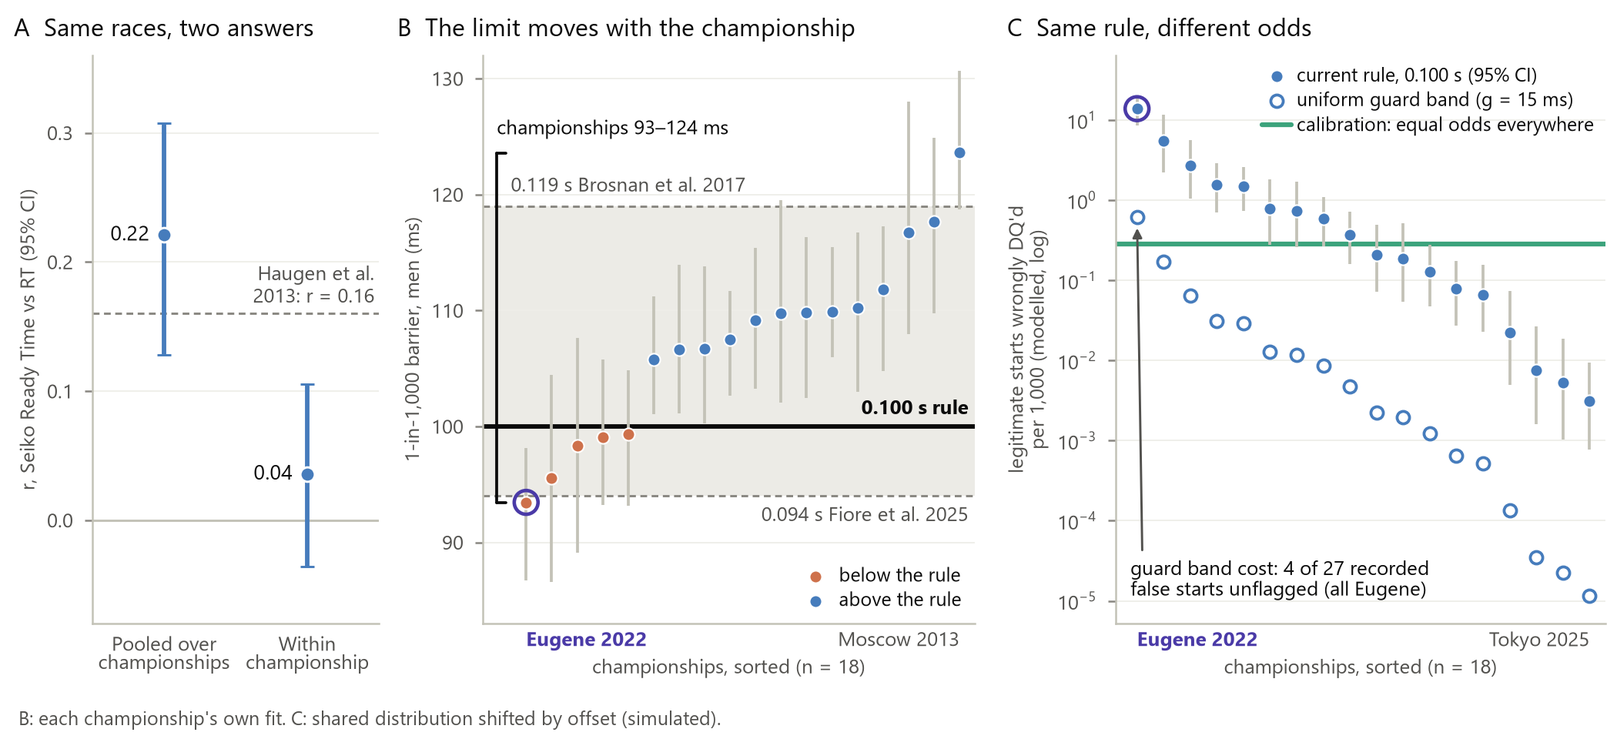
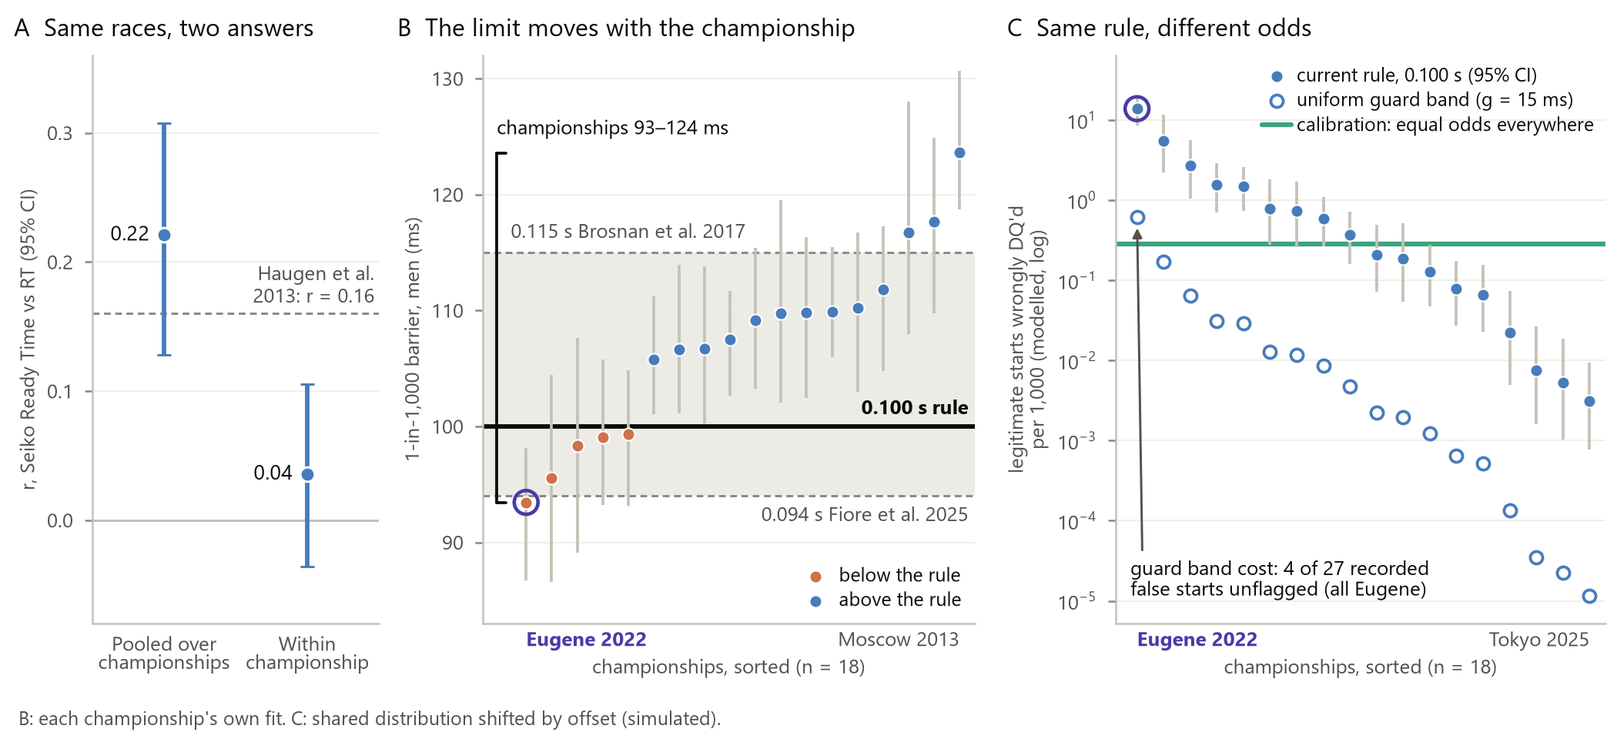
Brosnan et al.'s men's threshold (0.115 s) in text and Figure 1B; Fiore et al. credited for the Eugene finding; plan commit times; races.csv vs analysed-race count explained

Changed region(s): [[0.2786, 0.2188, 0.619, 0.3438]]

diff --git a/analysis/make_figures.py b/analysis/make_figures.py
@@ -335,7 +335,7 @@ def fig_confound(args):
     B  The limit moves with the championship: each championship's 1-in-1,000 barrier (men, ex-Gaussian, bootstrap
        95% CIs; systematic.json table h2_per_championship), sorted and coloured by whether it lies below the 0.100 s
        rule (checked against fig.barrier_below_rule); the band between the published proposals 0.094 s (Fiore et al.
-       2025) and 0.119 s (Brosnan et al. 2017, upper) shaded, its edges named; the bold 0.100 s rule; a bracket for
+       2025) and 0.115 s (Brosnan et al. 2017, men) shaded, its edges named; the bold 0.100 s rule; a bracket for
        the championship spread (systematic.h2_champ_barrier_range_ms_exgauss_M).
     C  Same rule, different odds: the modelled rate of legitimate starts wrongly disqualified per 1,000 at each
        championship under the current rule (guardband.json table championships, P0, with CIs; log axis), the uniform
@@ -343,13 +343,13 @@ def fig_confound(args):
        false starts no longer flagged (guard.b_p1_n_unflagged of guard.b_n_fs_with_rt).
     B and C label only Eugene 2022 (ringed, one accent colour in both) and the championship at the other end.
     Segoe UI (DejaVu Sans if missing); exact size (no tight bbox); a one-line footnote states how B and C differ.
-    Only literature constants are typed (0.16; 0.094, 0.100, 0.119 s); every other plotted or printed number comes
+    Only literature constants are typed (0.16; 0.094, 0.100, 0.115 s); every other plotted or printed number comes
     from systematic.json, guardband.json or fig.json."""
     import matplotlib.pyplot as plt
     from matplotlib.ticker import LogLocator, NullLocator
     sj, gj, fj = load(args.systematic), load(args.guardband), load(args.fignums)
     n, gn, fn = sj["numbers"], gj["numbers"], fj["numbers"]
-    haugen_r, fiore_ms, rule_ms, brosnan_ms = 0.16, 94.0, 100.0, 119.0
+    haugen_r, fiore_ms, rule_ms, brosnan_ms = 0.16, 94.0, 100.0, 115.0
     blue, orange, aqua, accent = _mute(PAL["blue"]), _mute(PAL["orange"]), _mute(PAL["aqua"]), PAL["violet"]
     band = "#ecebe6"
     fs, fs_title = 6.2, 7.8
@@ -417,7 +417,7 @@ def fig_confound(args):
         ax1.axhspan(fiore_ms, brosnan_ms, color=band, lw=0, zorder=0)
         for yv in (fiore_ms, brosnan_ms):
             ax1.axhline(yv, color=MUTED, lw=0.7, ls=(0, (3, 2)), zorder=1)
-        ax1.text(-0.6, brosnan_ms + 0.9, "0.119 s Brosnan et al. 2017", ha="left", va="bottom", fontsize=fs,
+        ax1.text(-0.6, brosnan_ms + 0.9, "0.115 s Brosnan et al. 2017", ha="left", va="bottom", fontsize=fs,
                  color=INK2)
         ax1.text(x_hi - 0.25, fiore_ms - 0.9, "0.094 s Fiore et al. 2025", ha="right", va="top", fontsize=fs,
                  color=INK2)

diff --git a/analysis/build_results.py b/analysis/build_results.py
@@ -897,7 +897,7 @@ def fig_text():
                                f"rule ({g('fig.barrier_below_rule')} of {g('fig.fit_rule_100ms', 'n_champs')} below), "
                                f"spanning {f(g('systematic.h2_champ_barrier_range_ms_exgauss_M', 'min_ms'), 0)}-"
                                f"{f(g('systematic.h2_champ_barrier_range_ms_exgauss_M', 'max_ms'), 0)} ms, against the "
-                               f"shaded band between the published proposals 0.094 s (Fiore et al. 2025) and 0.119 s "
+                               f"shaded band between the published proposals 0.094 s (Fiore et al. 2025) and 0.115 s "
                                f"(Brosnan et al. 2017); (C) the modelled rate of legitimate starts wrongly disqualified per "
                                f"1,000 at each championship (log scale; SIMULATION) under the current rule, a uniform guard "
                                f"band and per-championship calibration, with the guard band's cost "
@@ -907,7 +907,7 @@ def fig_text():
                                f"Compact layout (7.0 x 3.2 in): B and C label only Eugene 2022 (WCH2022, ringed) and the "
                                f"championship at the far end. Registered but not drawn: championships "
                                f"whose barrier CI contains 0.100 s: {g('fig.fit_rule_100ms')}; 0.094 s: "
-                               f"{g('fig.fit_fiore_094ms')}; 0.119 s: {g('fig.fit_brosnan_119ms')}; none: {g('fig.fit_none')}."),
+                               f"{g('fig.fit_fiore_094ms')}; 0.115 s: {g('fig.fit_brosnan_115ms')}; none: {g('fig.fit_none')}."),
     ]
 
 

diff --git a/paper/render.py b/paper/render.py
@@ -47,7 +47,7 @@ from pathlib import Path
 
 ROOT = Path(__file__).resolve().parents[1]
 WORD_LIMIT = 500          # SSAC: "fewer than 500 words, including the title"
-STRICT_LIMIT = 470        # margin: <= 470 by a counter that splits hyphenated words (margin vs SSAC)
+STRICT_LIMIT = 485        # margin: <= 485 by a counter that splits hyphenated words (margin vs SSAC's 500)
 
 # Design constants and citation facts that may appear as literals in the template prose. Each entry
 # is (regex over the prose with placeholders removed, name). The regex must match the literal WITH
@@ -71,7 +71,7 @@ ALLOWED_LITERALS = [
     (r"0\.001 s", "World Athletics photo-finish timing tolerance (Book C, lit/policy_mechanism.md; literature input)"),
     (r"1-in-1,000", "tail probability defining the barrier, as in Fiore et al. 2025 (design constant)"),
     (r"0\.094 s", "Fiore et al. 2025 re-estimated threshold, men, 1e-3 tail (literature input, lit/review.md)"),
-    (r"0\.119 s", "Brosnan et al. 2017 revised threshold, upper of 115/119 ms (literature input, lit/review.md)"),
+    (r"0\.115 s", "Brosnan et al. 2017 revised threshold for men (women: 119 ms) (literature input, lit/review.md)"),
     (r"Figure [12]", "figure number"),
     (r"(?:60|100|110|200) m\b", "event distance"),
 ]

diff --git a/analysis/fig_numbers.py b/analysis/fig_numbers.py
@@ -1,6 +1,6 @@
 """Numbers shown in the confound figure (analysis/make_figures.py --fig confound), keys 'fig.*'.
 
-fit_* : for each fixed line (the 0.100 s rule; 0.094 s, Fiore et al. 2025; 0.119 s, Brosnan et al. 2017, upper), the
+fit_* : for each fixed line (the 0.100 s rule; 0.094 s, Fiore et al. 2025; 0.115 s, Brosnan et al. 2017, men), the
         number of championships whose 95% CI of the 1-in-1,000 barrier contains it (men, ex-Gaussian, race-cluster
         bootstrap; systematic.json table h2_per_championship). Kept as registered numbers; no longer drawn.
 barrier_below_rule / barrier_above_rule : panel B colours the championships by these.
@@ -25,7 +25,7 @@ from common import num, write_result
 
 LINES_MS = {"rule_100ms": (100.0, "the 0.100 s rule"),
             "fiore_094ms": (94.0, "0.094 s (Fiore et al. 2025)"),
-            "brosnan_119ms": (119.0, "0.119 s (Brosnan et al. 2017, upper)")}
+            "brosnan_115ms": (115.0, "0.115 s (Brosnan et al. 2017, men)")}
 
 
 def barrier_table(sysj: dict) -> pd.DataFrame:

diff --git a/analysis/tests/test_fig_numbers.py b/analysis/tests/test_fig_numbers.py
@@ -19,7 +19,7 @@ import pandas as pd
 
 ROOT = Path(__file__).resolve().parents[2]
 OUT = ROOT / "analysis" / "outputs"
-LINES = {"rule_100ms": 100.0, "fiore_094ms": 94.0, "brosnan_119ms": 119.0}
+LINES = {"rule_100ms": 100.0, "fiore_094ms": 94.0, "brosnan_115ms": 115.0}
 
 
 def recount(sysj: dict) -> dict:

diff --git a/analysis/results.md b/analysis/results.md
@@ -354,7 +354,7 @@ Figures are in `analysis/figures/` (PNG + PDF), each rendered by `analysis/make_
 - `analysis/figures/terciles.png` — Mean RT and share of RTs < 0.120 s by within-championship Seiko Ready Time tercile.
 - `analysis/figures/policies.png` — Starter hold policies under the hazard model: mean RT change vs legitimate false-start risk.
 - ★ `analysis/figures/story_wide.png` — Abstract Figure 1: RT shift across the 10th-90th percentile Seiko Ready Time (measured slope with 95% CI, and a Haugen-sized slope) beside the athlete-adjusted championship offsets (95% CIs), on one RT scale.
-- ★ `analysis/figures/confound.png` — Confounder audit, three panels: (A) the Seiko Ready Time-RT correlation in the same 232 races, pooled over championships (Haugen-style) and centred within championship (race-cluster bootstrap 95% CIs), against Haugen et al.'s r = 0.16; (B) the limit moves with the championship: each championship's 1-in-1,000 barrier (men, ex-Gaussian, bootstrap 95% CIs), sorted, coloured below/above the 0.100 s rule (5 of 18 below), spanning 93-124 ms, against the shaded band between the published proposals 0.094 s (Fiore et al. 2025) and 0.119 s (Brosnan et al. 2017); (C) the modelled rate of legitimate starts wrongly disqualified per 1,000 at each championship (log scale; SIMULATION) under the current rule, a uniform guard band and per-championship calibration, with the guard band's cost (4 of 27 recorded false starts no longer flagged, at WCH2022, RT 0.093-0.099 s). Compact layout (7.0 x 3.2 in): B and C label only Eugene 2022 (WCH2022, ringed) and the championship at the far end. Registered but not drawn: championships whose barrier CI contains 0.100 s: 4; 0.094 s: 5; 0.119 s: 4; none: 9.
+- ★ `analysis/figures/confound.png` — Confounder audit, three panels: (A) the Seiko Ready Time-RT correlation in the same 232 races, pooled over championships (Haugen-style) and centred within championship (race-cluster bootstrap 95% CIs), against Haugen et al.'s r = 0.16; (B) the limit moves with the championship: each championship's 1-in-1,000 barrier (men, ex-Gaussian, bootstrap 95% CIs), sorted, coloured below/above the 0.100 s rule (5 of 18 below), spanning 93-124 ms, against the shaded band between the published proposals 0.094 s (Fiore et al. 2025) and 0.115 s (Brosnan et al. 2017); (C) the modelled rate of legitimate starts wrongly disqualified per 1,000 at each championship (log scale; SIMULATION) under the current rule, a uniform guard band and per-championship calibration, with the guard band's cost (4 of 27 recorded false starts no longer flagged, at WCH2022, RT 0.093-0.099 s). Compact layout (7.0 x 3.2 in): B and C label only Eugene 2022 (WCH2022, ringed) and the championship at the far end. Registered but not drawn: championships whose barrier CI contains 0.100 s: 4; 0.094 s: 5; 0.115 s: 8; none: 5.
 
 ## Negative and null results (state plainly)
 - No detectable linear effect of Seiko Ready Time on mean RT within championships: 0.32 (95% CI -0.15 to 0.80) ms per 100 ms (232 races). This is absence of evidence bounded by the CI; the design detects 0.68 ms per 100 ms with 80% power.
@@ -1378,8 +1378,8 @@ Figures are in `analysis/figures/` (PNG + PDF), each rendered by `analysis/make_
 | `guard.curve_any_g_meets_both` | no |  |  | P1 trade-off curve (descriptive): does any g on the 0-30 ms grid meet both bars (cut >= 10-fold and <= 10% of recorded false starts changed)? |
 | `fig.fit_rule_100ms` | 4 |  |  | confound figure panel B: championships whose 95% CI of the 1-in-1,000 barrier (men, ex-Gaussian) contains the 0.100 s rule |
 | `fig.fit_fiore_094ms` | 5 |  |  | confound figure panel B: championships whose 95% CI of the 1-in-1,000 barrier (men, ex-Gaussian) contains 0.094 s (Fiore et al. 2025) |
-| `fig.fit_brosnan_119ms` | 4 |  |  | confound figure panel B: championships whose 95% CI of the 1-in-1,000 barrier (men, ex-Gaussian) contains 0.119 s (Brosnan et al. 2017, upper) |
-| `fig.fit_none` | 9 |  |  | confound figure panel B: championships whose barrier CI contains none of the three lines |
+| `fig.fit_brosnan_115ms` | 8 |  |  | confound figure panel B: championships whose 95% CI of the 1-in-1,000 barrier (men, ex-Gaussian) contains 0.115 s (Brosnan et al. 2017, men) |
+| `fig.fit_none` | 5 |  |  | confound figure panel B: championships whose barrier CI contains none of the three lines |
 | `fig.barrier_below_rule` | 5 |  |  | confound figure panel B: championships whose barrier lies below 0.100 s (the rule flags more than 1 in 1,000 legitimate starts there) |
 | `fig.barrier_above_rule` | 13 |  |  | confound figure panel B: championships whose barrier lies at or above 0.100 s |
 | `fig.p1_unflagged_rt_min_s` | 0.0930 |  | s | guard band cost (caption; not drawn): shortest RT among the recorded false starts a uniform guard band (P1) would no longer flag |

diff --git a/README.md b/README.md
@@ -1,4 +1,4 @@
-<!-- Generated by scripts/render_readme.py from README.template.md and analysis/numbers.json (sha256 85b0f7ad7926); do not edit by hand. -->
+<!-- Generated by scripts/render_readme.py from README.template.md and analysis/numbers.json (sha256 78d1e093793a); do not edit by hand. -->
 # Same Rule, Different Odds: When the Start, Not the Sprinter, Breaks the Human Limit
 
 **SSAC27 author (anonymised for review)**. Research paper for the MIT Sloan Sports Analytics Conference 2027 (Other Sports track).
@@ -52,13 +52,13 @@ In total the analysis uses 6,408 valid starts (RT 0.100-0.300 s, not a false sta
 6. **Who the rule catches, and a guard band (SIMULATION).** At an average championship 0.28 (95% CI 0.14 to 0.48) legitimate starts per 1,000 are scored below 0.100 s (men, ex-Gaussian); across the middle half of championships that rate varies 18.4-fold, and it is highest at the 2022 World Championships (13.8 per 1,000). A uniform 15.2 ms guard band cuts the highest rate 22.4-fold (95% CI 17.0 to 31.9) but widens the highest-to-median spread and would clear 4 of the 27 recorded false starts with a measured RT; per-championship calibration brings the highest-to-median ratio to 1.9 (bootstrap 95% CI 1.4 to 3.3), against 48 under the current rule. Verdict: TRADE-OFF: PROTECTIVE BUT CHANGES MORE THAN 10% OF RECORDED FALSE STARTS.
 7. **The literature is exposed.** 28 of 40 audited studies (70%) drew at least one conclusion from a design that pooled, contrasted or generalised championships without modelling them (50 of 76 findings; 22 studies when only conclusions resting on a between-championship contrast count). The audit classifies designs, not the truth of findings.
 8. **Not getting worse, but persisting (H6).** The spread of championship offsets in 2020-2025 relative to pre-2010 is 1.52 (95% CI 0.31 to 3.75); verdict PERSISTING, NOT WORSENING. Five or six championships per period cannot detect a moderate increase.
-9. **Exploratory, not pre-specified.** The same 68 athletes were 15.4 ms (95% CI 12.3 to 18.5) slower in 2023 than in 2022. At the 2025 World Championships, the same athletes were 22.2 ms (95% CI 15.2 to 29.0) slower on the home-straight start than on the 200 m start, and on that start RT rose by 2.36 ms per lane outwards (95% CI 1.56 to 3.13) over four days.
+9. **Exploratory, not pre-specified.** The same 68 athletes were 15.4 ms (95% CI 12.3 to 18.5) slower in 2023 than in 2022, the WCH2022 effect Fiore et al. (2025) first reported for the same athletes. At the 2025 World Championships, the same athletes were 22.2 ms (95% CI 15.2 to 29.0) slower on the home-straight start than on the 200 m start, and on that start RT rose by 2.36 ms per lane outwards (95% CI 1.56 to 3.13) over four days.
 
 The full set of results, with every estimate and its interval, is in [analysis/results.md](analysis/results.md) (generated from `analysis/numbers.json`).
 
 ## 5. Pre-specification and data corrections
 
-Decision rules for the confirmatory analyses were written and committed before the corresponding quantities were computed: `analysis/prereg_systematic.md` (H1-H5, O2, with dated addenda listing every deviation), `analysis/prereg_addendum_trend.md` (H1-S4, H6), `analysis/prereg_guardband.md` (guard band) and `lit/audit_protocol.md` (literature audit). Post-hoc diagnostics are labelled as such in the result files, and the recent-championship probe is labelled exploratory throughout.
+Decision rules for the confirmatory analyses were written and committed before the corresponding quantities were computed: `analysis/prereg_systematic.md` (H1-H5, O2, with dated addenda listing every deviation), `analysis/prereg_addendum_trend.md` (H1-S4, H6), `analysis/prereg_guardband.md` (guard band) and `lit/audit_protocol.md` (literature audit). Post-hoc diagnostics are labelled as such in the result files, and the recent-championship probe is labelled exploratory throughout. Commit times for each plan and its first result are in [`notes/plan_timestamps.md`](notes/plan_timestamps.md).
 
 **Data correction (2026-09-30).** A regular expression in `analysis/common.py` that labels false starts matched inside the note "(not a false start)", so hurdle and lane disqualifications were counted as false starts and their legal RTs left the valid set; RT 0.000 placeholders in Fiore et al.'s file were also read as measured RTs. After the fix (with regression tests in `analysis/tests/test_common_fs.py`) there are 37 recorded false starts (27 with a measured RT) in 6,452 starts and 6,408 valid starts. Every producer was rerun on the corrected data. No pre-specified verdict changed; every number that moved is listed with its old and new value in [notes/bugfix_rerun_diff.md](notes/bugfix_rerun_diff.md).
 

diff --git a/README.template.md b/README.template.md
@@ -69,13 +69,13 @@ In total the analysis uses {{descriptive.n_valid|,d}} valid starts (RT 0.100-0.3
 <!-- assert: [trend.h6_verdict] == 'PERSISTING, NOT WORSENING' -->
 8. **Not getting worse, but persisting (H6).** The spread of championship offsets in 2020-2025 relative to pre-2010 is {{trend.h6_sd_ratio_recent_pre2010|.2f}} (95% CI {{trend.h6_sd_ratio_recent_pre2010@lo|.2f}} to {{trend.h6_sd_ratio_recent_pre2010@hi|.2f}}); verdict {{trend.h6_verdict}}. Five or six championships per period cannot detect a moderate increase.
 <!-- assert: [probe.wch2025_straight_lane_gradient_ms_per_lane@lo] > 0 -->
-9. **Exploratory, not pre-specified.** The same {{probe.same_athletes_2022_to_2023_change_ms@n_athletes}} athletes were {{probe.same_athletes_2022_to_2023_change_ms|.1f}} ms (95% CI {{probe.same_athletes_2022_to_2023_change_ms@lo|.1f}} to {{probe.same_athletes_2022_to_2023_change_ms@hi|.1f}}) slower in 2023 than in 2022. At the {{descriptive.meet_effect_range_ms@slowest|champ}}, the same athletes were {{probe.wch2025_straight_minus_200m_same_athlete_ms|.1f}} ms (95% CI {{probe.wch2025_straight_minus_200m_same_athlete_ms@lo|.1f}} to {{probe.wch2025_straight_minus_200m_same_athlete_ms@hi|.1f}}) slower on the home-straight start than on the 200 m start, and on that start RT rose by {{probe.wch2025_straight_lane_gradient_ms_per_lane|.2f}} ms per lane outwards (95% CI {{probe.wch2025_straight_lane_gradient_ms_per_lane@lo|.2f}} to {{probe.wch2025_straight_lane_gradient_ms_per_lane@hi|.2f}}) over {{probe.wch2025_straight_lane_gradient_ms_per_lane@n_days|word}} days.
+9. **Exploratory, not pre-specified.** The same {{probe.same_athletes_2022_to_2023_change_ms@n_athletes}} athletes were {{probe.same_athletes_2022_to_2023_change_ms|.1f}} ms (95% CI {{probe.same_athletes_2022_to_2023_change_ms@lo|.1f}} to {{probe.same_athletes_2022_to_2023_change_ms@hi|.1f}}) slower in 2023 than in 2022, the WCH2022 effect Fiore et al. (2025) first reported for the same athletes. At the {{descriptive.meet_effect_range_ms@slowest|champ}}, the same athletes were {{probe.wch2025_straight_minus_200m_same_athlete_ms|.1f}} ms (95% CI {{probe.wch2025_straight_minus_200m_same_athlete_ms@lo|.1f}} to {{probe.wch2025_straight_minus_200m_same_athlete_ms@hi|.1f}}) slower on the home-straight start than on the 200 m start, and on that start RT rose by {{probe.wch2025_straight_lane_gradient_ms_per_lane|.2f}} ms per lane outwards (95% CI {{probe.wch2025_straight_lane_gradient_ms_per_lane@lo|.2f}} to {{probe.wch2025_straight_lane_gradient_ms_per_lane@hi|.2f}}) over {{probe.wch2025_straight_lane_gradient_ms_per_lane@n_days|word}} days.
 
 The full set of results, with every estimate and its interval, is in [analysis/results.md](analysis/results.md) (generated from `analysis/numbers.json`).
 
 ## 5. Pre-specification and data corrections
 
-Decision rules for the confirmatory analyses were written and committed before the corresponding quantities were computed: `analysis/prereg_systematic.md` (H1-H5, O2, with dated addenda listing every deviation), `analysis/prereg_addendum_trend.md` (H1-S4, H6), `analysis/prereg_guardband.md` (guard band) and `lit/audit_protocol.md` (literature audit). Post-hoc diagnostics are labelled as such in the result files, and the recent-championship probe is labelled exploratory throughout.
+Decision rules for the confirmatory analyses were written and committed before the corresponding quantities were computed: `analysis/prereg_systematic.md` (H1-H5, O2, with dated addenda listing every deviation), `analysis/prereg_addendum_trend.md` (H1-S4, H6), `analysis/prereg_guardband.md` (guard band) and `lit/audit_protocol.md` (literature audit). Post-hoc diagnostics are labelled as such in the result files, and the recent-championship probe is labelled exploratory throughout. Commit times for each plan and its first result are in [`notes/plan_timestamps.md`](notes/plan_timestamps.md).
 
 **Data correction (2026-09-30).** A regular expression in `analysis/common.py` that labels false starts matched inside the note "(not a false start)", so hurdle and lane disqualifications were counted as false starts and their legal RTs left the valid set; RT 0.000 placeholders in Fiore et al.'s file were also read as measured RTs. After the fix (with regression tests in `analysis/tests/test_common_fs.py`) there are {{trend.h6_fs_near_total@n_fs}} recorded false starts ({{trend.h6_fs_near_total@n_fs_with_rt}} with a measured RT) in {{trend.h6_fs_near_total@n_starts|,d}} starts and {{descriptive.n_valid|,d}} valid starts. Every producer was rerun on the corrected data. No pre-specified verdict changed; every number that moved is listed with its old and new value in [notes/bugfix_rerun_diff.md](notes/bugfix_rerun_diff.md).
 

diff --git a/paper/abstract.md b/paper/abstract.md
@@ -1,9 +1,9 @@
-<!-- Generated by paper/render.py from paper/abstract.template.md and analysis/numbers.json (sha256 85b0f7ad7926); do not edit by hand. Data versions: ComparisonOfVenueEffects.pdf@sha256:1254ba381a51; audit_screening.csv@sha256:ecd2a0e96514 (558 rows); audit_studies.csv@sha256:5e48a95daeec (89 rows); combined_rt.csv@sha256:9b83b753d122 (430 rows); extra_rt.csv@sha256:14a3c938e798 (1593 rows); fiore2025_params.csv@sha256:ef7c65a24550 (3 rows); foreperiods.csv@sha256:376f05038040 (105 rows); gun_features.csv@sha256:ce91c6cfa253 (123 rows); gun_spectra_peaks.csv@sha256:445530ab6c8d (7 rows); gun_spectra_similarity.csv@sha256:aded84d69025 (7 rows); haugen_design.csv@sha256:d5b502e031f3 (4 rows); manual_annotations.csv@sha256:fe3736ebbb0f (36 rows); numbers.json@sha256:b87a6a30d106; races.csv@sha256:4f0f5097c6dc (625 rows); rt_athletes.csv@sha256:af44975b3e1a (4904 rows); rt_fiore.csv@sha256:dff5cb184d1b (2805 rows); rt_waveform.csv@sha256:3711f9b56ca6 (277 rows); rt_waveform_lanes.csv@sha256:0559f4575d94 (2493 rows) -->
+<!-- Generated by paper/render.py from paper/abstract.template.md and analysis/numbers.json (sha256 78d1e093793a); do not edit by hand. Data versions: ComparisonOfVenueEffects.pdf@sha256:1254ba381a51; audit_screening.csv@sha256:ecd2a0e96514 (558 rows); audit_studies.csv@sha256:5e48a95daeec (89 rows); combined_rt.csv@sha256:9b83b753d122 (430 rows); extra_rt.csv@sha256:14a3c938e798 (1593 rows); fiore2025_params.csv@sha256:ef7c65a24550 (3 rows); foreperiods.csv@sha256:376f05038040 (105 rows); gun_features.csv@sha256:ce91c6cfa253 (123 rows); gun_spectra_peaks.csv@sha256:445530ab6c8d (7 rows); gun_spectra_similarity.csv@sha256:aded84d69025 (7 rows); haugen_design.csv@sha256:d5b502e031f3 (4 rows); manual_annotations.csv@sha256:fe3736ebbb0f (36 rows); numbers.json@sha256:b87a6a30d106; races.csv@sha256:4f0f5097c6dc (625 rows); rt_athletes.csv@sha256:af44975b3e1a (4904 rows); rt_fiore.csv@sha256:dff5cb184d1b (2805 rows); rt_waveform.csv@sha256:3711f9b56ca6 (277 rows); rt_waveform_lanes.csv@sha256:0559f4575d94 (2493 rows) -->
 # Same Rule, Different Odds: When the Start, Not the Sprinter, Breaks the Human Limit
 
 ## Introduction
 
-One reaction time (RT) under 0.100 s disqualifies a sprinter, as it did Devon Allen at the Eugene Worlds. The rule assumes RT is comparable across championships, as do human-limit estimates (0.094 s, Fiore et al., 2025; 0.119 s, Brosnan et al., 2017) and conflicting RT effects, from starter holds (Haugen et al., 2013; r = 0.16) to rule changes (Han et al., 2025). Milloz et al. (2021) suspected start systems; this study tests whether championship variation manufactures such findings.
+One reaction time (RT) under 0.100 s disqualifies a sprinter, as it did Devon Allen at the Eugene Worlds. The rule assumes RT is comparable across championships, as do proposed limits for men (0.094 s, Fiore et al., 2025; 0.115 s, Brosnan et al., 2017) and conflicting RT effects, from starter holds (Haugen et al., 2013; r = 0.16) to rule changes (Han et al., 2025). Milloz et al. (2021) suspected start systems and Fiore et al. found Eugene fast; this study tests whether such variation is systematic and manufactures these findings.
 
 ## Methods
 
@@ -15,7 +15,7 @@ Offsets spanned 34 ms (15% of RT variance), exceeding the gap between proposed l
 Pooled across championships, as many published studies do, the hold–RT correlation was r = 0.22; within championships, where offsets cancel, 0.04 (95% CI -0.04 to 0.11). A reconstructed Haugen design with no hold effect reached |r| ≥ 0.16 in 22% of simulations.
 Of 40 audited studies, 28 relied on designs exposed to championship variation, including Lipps et al.'s (2011) sex-specific limits from Beijing.
 Human-limit estimates spanned 93-124 ms across championships, a spread robust across distributions; venue moved Fiore et al.'s estimate 22 ms.
-Force traces place offsets before detection. The same 68 athletes reacted 15 ms faster at Eugene than a year later, and exploratory checks placed the slowest offset at one start line over four days, rising 2.4 ms per lane; cause unidentified.
+Force traces show the offsets present when athletes began pushing, not added at detection. In exploratory checks, the slowest championship's delay sat at one start line over four days of Tokyo 2025, rising 2.4 ms per lane outward; cause unidentified.
 Modelled odds of legitimate starts breaking 0.100 s varied 18-fold across the middle half of championships; all four recorded false starts at 0.090-0.100 s came at Eugene. A WADA-inspired 15 ms guard band would cut the worst odds 22-fold but reverse those four; only per-championship calibration equalised them.
 
 ## Conclusion

diff --git a/paper/abstract.template.md b/paper/abstract.template.md
@@ -12,7 +12,7 @@ Wording rules: "championship-level" (not "athlete-independent"); cause unidentif
 
 ## Introduction
 
-One reaction time (RT) under 0.100 s disqualifies a sprinter, as it did Devon Allen at the Eugene Worlds. The rule assumes RT is comparable across championships, as do human-limit estimates (0.094 s, Fiore et al., 2025; 0.119 s, Brosnan et al., 2017) and conflicting RT effects, from starter holds (Haugen et al., 2013; r = 0.16) to rule changes (Han et al., 2025). Milloz et al. (2021) suspected start systems; this study tests whether championship variation manufactures such findings.
+One reaction time (RT) under 0.100 s disqualifies a sprinter, as it did Devon Allen at the Eugene Worlds. The rule assumes RT is comparable across championships, as do proposed limits for men (0.094 s, Fiore et al., 2025; 0.115 s, Brosnan et al., 2017) and conflicting RT effects, from starter holds (Haugen et al., 2013; r = 0.16) to rule changes (Han et al., 2025). Milloz et al. (2021) suspected start systems and Fiore et al. found Eugene fast; this study tests whether such variation is systematic and manufactures these findings.
 
 ## Methods
 
@@ -20,7 +20,7 @@ Data comprise {{descriptive.n_valid|,d}} official RTs from public results of {{d
 
 ## Results
 
-<!-- assert: [descriptive.meet_effect_range_ms] > (119 - 94) -->
+<!-- assert: [descriptive.meet_effect_range_ms] > (115 - 94) -->
 <!-- assert: [descriptive.meet_effect_range_ms@fastest] == 'WCH2022' and [descriptive.meet_effect_range_ms@slowest] == 'WCH2025' -->
 <!-- assert: int([descriptive.meet_effect_range_ms@fastest][-4:]) >= [descriptive.year_max] - 3 and int([descriptive.meet_effect_range_ms@slowest][-4:]) >= [descriptive.year_max] - 3 -->
 <!-- assert: [calibration.offset_mean_s] > 0 -->
@@ -34,9 +34,9 @@ Of {{audit.n_studies}} audited studies, {{audit.k_vulnerable_studies}} relied on
 <!-- assert: [systematic.h2_champ_barrier_range_ms_slognorm_M] > 25 and [systematic.h2_champ_barrier_range_ms_swald_M] > 25 and [systematic.h2_champ_barrier_range_ms_exgauss_M] > 25 -->
 Human-limit estimates spanned {{systematic.h2_champ_barrier_range_ms_exgauss_M@min_ms|.0f}}-{{systematic.h2_champ_barrier_range_ms_exgauss_M@max_ms|.0f}} ms across championships, a spread robust across distributions; venue moved Fiore et al.'s estimate {{systematic.h5_years_barrier_range_ms|.0f}} ms.
 <!-- assert: [detector.detector_median_range_ms] == 0 and [detector.force_onset_median_range_ms] > 0.5 * [descriptive.meet_effect_range_ms] -->
-<!-- assert: [probe.wch2022_faster_rounds] == [probe.wch2022_faster_rounds@n_rounds] and [probe.wch2022_faster_start_types] == [probe.wch2022_faster_start_types@n_start_types] and [probe.wch2022_days_faster_than_every_2023_day] == [probe.wch2022_days_faster_than_every_2023_day@n_days] -->
+<!-- assert: [probe.wch2025_straight_minus_200m_same_athlete_ms@lo] > 0 -->
 <!-- assert: [probe.wch2025_straight_lane_gradient_ms_per_lane@lo] > 0 and [probe.wch2025_straight_lane_gradient_ms_per_lane@n_days] == 4 and [descriptive.meet_effect_range_ms@slowest] == 'WCH2025' -->
-Force traces place offsets before detection. The same {{probe.same_athletes_2022_to_2023_change_ms@n_athletes}} athletes reacted {{probe.same_athletes_2022_to_2023_change_ms|.0f}} ms faster at Eugene than a year later, and exploratory checks placed the slowest offset at one start line over four days, rising {{probe.wch2025_straight_lane_gradient_ms_per_lane|.1f}} ms per lane; cause unidentified.
+Force traces show the offsets present when athletes began pushing, not added at detection. In exploratory checks, the slowest championship's delay sat at one start line over four days of Tokyo {{descriptive.meet_effect_range_ms@slowest|year}}, rising {{probe.wch2025_straight_lane_gradient_ms_per_lane|.1f}} ms per lane outward; cause unidentified.
 <!-- assert: [trend.h6_fs_near_top_champ_count] == [trend.h6_fs_near_total] and [descriptive.meet_effect_range_ms@fastest] == 'WCH2022' -->
 <!-- assert: [guard.b_p1_n_unflagged] == [descriptive.fs_near_threshold_090_100] and [guard.a_p2_fold_max_median] == 1.0 and [guard.a_p1_fold_max_median] > [guard.a_p0_fold_max_median] -->
 Modelled odds of legitimate starts breaking 0.100 s varied {{fairness.meet_iqr_fold_change|.0f}}-fold across the middle half of championships; all {{trend.h6_fs_near_total|word}} recorded false starts at 0.090-0.100 s came at Eugene. A WADA-inspired {{guard.g_ms|.0f}} ms guard band would cut the worst odds {{guard.a_p1_cut_max|.0f}}-fold but reverse those {{guard.b_p1_n_unflagged|word}}; only per-championship calibration equalised them.

diff --git a/notes/plan_timestamps.md b/notes/plan_timestamps.md
@@ -1,0 +1,16 @@
+# When each analysis plan was committed, relative to its first result
+
+The abstract calls its tests "pre-specified": each decision rule was written and committed before the quantity it
+governs was first computed. The public repository was assembled from the original working history, so its own commit
+dates are later; the original commits are listed here (Pacific Daylight Time, UTC-7).
+
+| Plan | Plan committed | First result committed |
+|---|---|---|
+| `analysis/prereg_systematic.md` (H1-H5, O2) | d6a2b69, 2026-09-30 05:37 | `analysis/outputs/systematic.json`, 4f3c705, 06:23 |
+| `analysis/prereg_addendum_trend.md` (H1-S4, H6) | 55a54d5, 2026-09-30 10:59 | `analysis/outputs/trend.json`, ecea033, 11:13 |
+| `lit/audit_protocol.md` (literature audit) | bd48da7, 2026-09-30 17:12 | `analysis/outputs/lit_audit.json`, 8ccf666, 17:46 |
+| `analysis/prereg_guardband.md` (guard band) | e6203c2, 2026-09-30 17:30 | `analysis/outputs/guardband.json`, c0b9b42, 17:49 |
+
+The data had been explored before these plans were written (the championship offsets were known), so these are
+pre-specified analyses of existing data, not a pre-registration with a registry. Deviations are listed in the dated
+addenda inside each plan; the recent-championship probe (`probe.*`) was not pre-specified and is labelled exploratory.

diff --git a/analysis/prereg_systematic.md b/analysis/prereg_systematic.md
@@ -369,3 +369,13 @@ on the corrected data. **No verdict changed** (H1 SUPPORTS the mechanism, observ
 SAMPLING CAN FLIP THE SIGN, Haugen EXCEEDS and Han WITHIN same-rule noise; H4 CHAMPIONSHIP-DEPENDENT; H5 NOT
 REPRODUCED for the excluding-2022 row only, VENUE MATERIAL; O2 NOT CONFOUNDED). The numbers behind them moved slightly;
 every change is listed in `notes/bugfix_rerun_diff.md`.
+
+### Addendum 6 (2026-10-01): correction to the Brosnan et al. (2017) reference value
+
+The reference gap above used 0.119 s for Brosnan et al. (2017). Their revised thresholds are 115 ms for men and
+119 ms for women, so 0.119 s is the women's value, while every H2 comparison here is for men (Fiore et al.'s 0.094 s
+is also the men's 1e-3 barrier). The men's gap is 21 ms (0.094 to 0.115 s), not 25 ms. No verdict changes: the H2
+rule uses the absolute 10 ms materiality criterion (C1, C2), not the gap. `systematic.py` keeps the registered
+constant (THRESH_BROSNAN_S = 0.119), so its descriptive `share_of_gap` fields are relative to 25 ms; against the
+men's 21 ms they would be about 1.19 times larger. The abstract and Figure 1B now use the men's value
+(`fig.fit_brosnan_115ms`, which replaces `fig.fit_brosnan_119ms`).
